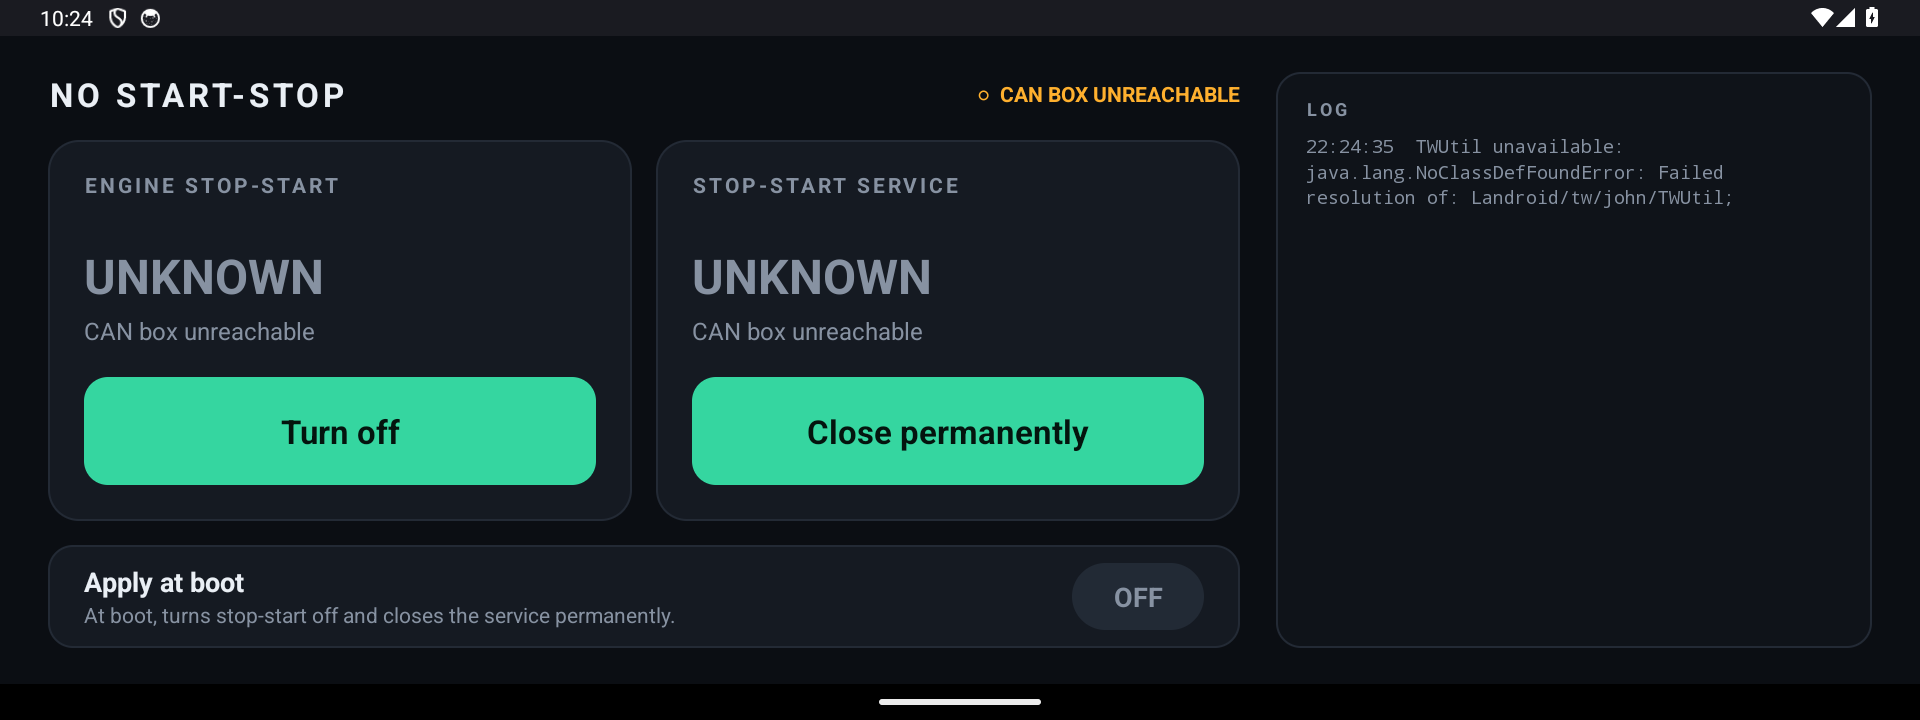
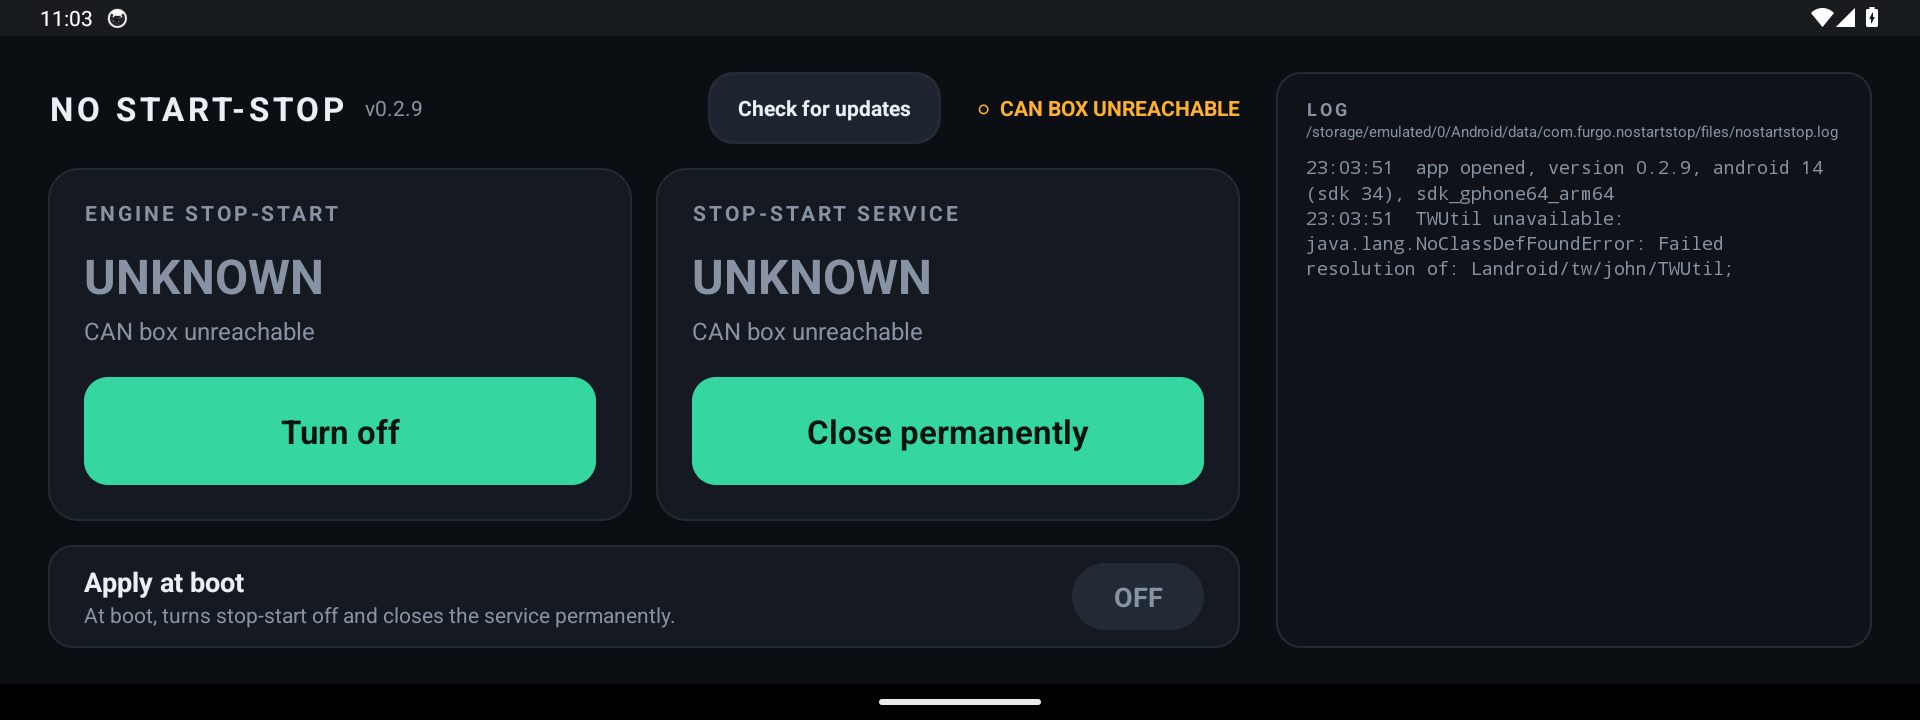
Add a Check for updates button that installs the latest release

diff --git a/src/com/furgo/nostartstop/Updater.java b/src/com/furgo/nostartstop/Updater.java
@@ -1,0 +1,125 @@
+package com.furgo.nostartstop;
+
+import android.app.PendingIntent;
+import android.content.Context;
+import android.content.Intent;
+import android.content.pm.PackageInstaller;
+import android.os.Build;
+
+import org.json.JSONArray;
+import org.json.JSONException;
+import org.json.JSONObject;
+
+import java.io.ByteArrayOutputStream;
+import java.io.IOException;
+import java.io.InputStream;
+import java.io.OutputStream;
+import java.net.HttpURLConnection;
+import java.net.URL;
+
+/**
+ * Finds the latest GitHub release and hands its APK to Android's installer.
+ * Both methods block on the network; call them off the main thread.
+ */
+final class Updater {
+    static final String ACTION_INSTALL_STATUS = "com.furgo.nostartstop.INSTALL_STATUS";
+
+    private static final String REPO = "lleirborras/android-start-stop";
+    private static final String LATEST_URL = "https://api.github.com/repos/" + REPO + "/releases/latest";
+    private static final String DOWNLOAD_PREFIX = "https://github.com/" + REPO + "/releases/download/";
+    private static final int MAX_APK_BYTES = 20 * 1024 * 1024;
+
+    static final class Release {
+        final String tag;
+        final String apkUrl;
+
+        Release(String tag, String apkUrl) {
+            this.tag = tag;
+            this.apkUrl = apkUrl;
+        }
+    }
+
+    static Release latest() throws IOException, JSONException {
+        HttpURLConnection c = open(LATEST_URL);
+        try {
+            c.setRequestProperty("Accept", "application/vnd.github+json");
+            if (c.getResponseCode() != 200) throw new IOException("GitHub answered " + c.getResponseCode());
+            JSONObject release = new JSONObject(new String(read(c.getInputStream(), 1024 * 1024), "UTF-8"));
+            String tag = release.getString("tag_name");
+            JSONArray assets = release.getJSONArray("assets");
+            for (int i = 0; i < assets.length(); i++) {
+                String url = assets.getJSONObject(i).getString("browser_download_url");
+                if (url.startsWith(DOWNLOAD_PREFIX) && url.endsWith(".apk")) return new Release(tag, url);
+            }
+            throw new IOException("release " + tag + " has no APK");
+        } finally {
+            c.disconnect();
+        }
+    }
+
+    /**
+     * Downloads the APK into an install session and commits it. Android then reports back to
+     * MainActivity (ACTION_INSTALL_STATUS), first to ask the user to confirm. Android itself
+     * rejects an APK that is not signed with the same key as the installed app.
+     */
+    static void install(Context context, Release release) throws IOException {
+        if (!release.apkUrl.startsWith(DOWNLOAD_PREFIX)) throw new IOException("unexpected download URL");
+        PackageInstaller installer = context.getPackageManager().getPackageInstaller();
+        PackageInstaller.SessionParams params =
+                new PackageInstaller.SessionParams(PackageInstaller.SessionParams.MODE_FULL_INSTALL);
+        params.setAppPackageName(context.getPackageName());
+        PackageInstaller.Session session = installer.openSession(installer.createSession(params));
+        try {
+            HttpURLConnection c = open(release.apkUrl);
+            try {
+                if (c.getResponseCode() != 200) throw new IOException("download answered " + c.getResponseCode());
+                byte[] apk = read(c.getInputStream(), MAX_APK_BYTES);
+                OutputStream out = session.openWrite("update.apk", 0, apk.length);
+                try {
+                    out.write(apk);
+                    session.fsync(out);
+                } finally {
+                    out.close();
+                }
+            } finally {
+                c.disconnect();
+            }
+            Intent status = new Intent(context, MainActivity.class).setAction(ACTION_INSTALL_STATUS);
+            // The installer fills in the result extras, so from Android 12 the intent must be mutable.
+            int flags = PendingIntent.FLAG_UPDATE_CURRENT
+                    | (Build.VERSION.SDK_INT >= 31 ? PendingIntent.FLAG_MUTABLE : 0);
+            session.commit(PendingIntent.getActivity(context, 0, status, flags).getIntentSender());
+        } catch (IOException e) {
+            session.abandon();
+            throw e;
+        } catch (RuntimeException e) {
+            session.abandon();
+            throw e;
+        } finally {
+            session.close();
+        }
+    }
+
+    private static HttpURLConnection open(String url) throws IOException {
+        HttpURLConnection c = (HttpURLConnection) new URL(url).openConnection();
+        c.setConnectTimeout(15000);
+        c.setReadTimeout(30000);
+        c.setRequestProperty("User-Agent", "nostartstop-updater");
+        return c;
+    }
+
+    private static byte[] read(InputStream in, int maxBytes) throws IOException {
+        try {
+            ByteArrayOutputStream out = new ByteArrayOutputStream();
+            byte[] buf = new byte[16 * 1024];
+            int n;
+            while ((n = in.read(buf)) != -1) {
+                out.write(buf, 0, n);
+                if (out.size() > maxBytes) throw new IOException("response larger than " + maxBytes + " bytes");
+            }
+            return out.toByteArray();
+        } finally {
+            in.close();
+        }
+    }
+}

diff --git a/src/com/furgo/nostartstop/MainActivity.java b/src/com/furgo/nostartstop/MainActivity.java
@@ -1,6 +1,8 @@
 package com.furgo.nostartstop;
 
 import android.app.Activity;
+import android.content.Intent;
+import android.content.pm.PackageInstaller;
 import android.graphics.Color;
 import android.graphics.Typeface;
 import android.graphics.drawable.GradientDrawable;
@@ -47,6 +49,9 @@ public class MainActivity extends Activity implements CanBox.Listener {
 
     private float density;
     private TextView linkView;
+    private TextView updateView;
+    private boolean updateBusy;
+    private Updater.Release available;   // non-null once a newer release was found
     private TextView bootPill;
     private TextView logView;
     private ScrollView logScroll;
@@ -160,6 +165,75 @@ public class MainActivity extends Activity implements CanBox.Listener {
         box.set(enabled == null ? false : enabled, target);
     }
 
+    private void onUpdateClick() {
+        if (updateBusy) return;
+        updateBusy = true;
+        final Updater.Release found = available;
+        renderUpdate(found == null ? "Checking…" : "Downloading " + found.tag + "…");
+        new Thread(new Runnable() {
+            @Override
+            public void run() {
+                try {
+                    if (found == null) {
+                        final Updater.Release latest = Updater.latest();
+                        handler.post(new Runnable() {
+                            @Override
+                            public void run() {
+                                onLatest(latest);
+                            }
+                        });
+                    } else {
+                        Updater.install(getApplicationContext(), found);
+                        finishUpdate("download done, waiting for Android's install prompt", "Check for updates");
+                    }
+                } catch (final Exception e) {
+                    finishUpdate("update failed: " + e, "Check for updates");
+                }
+            }
+        }).start();
+    }
+
+    private void onLatest(Updater.Release latest) {
+        updateBusy = false;
+        if (Version.isNewer(latest.tag, versionName())) {
+            available = latest;
+            onLog("update available: " + latest.tag);
+            renderUpdate("Install " + latest.tag);
+        } else {
+            onLog("no update: latest release is " + latest.tag + ", installed is " + versionName());
+            renderUpdate("Up to date");
+        }
+    }
+
+    private void finishUpdate(final String logLine, final String label) {
+        handler.post(new Runnable() {
+            @Override
+            public void run() {
+                updateBusy = false;
+                available = null;
+                onLog(logLine);
+                renderUpdate(label);
+            }
+        });
+    }
+
+    private void renderUpdate(String label) {
+        updateView.setText(label);
+    }
+
+    @Override
+    protected void onNewIntent(Intent intent) {
+        super.onNewIntent(intent);
+        if (!Updater.ACTION_INSTALL_STATUS.equals(intent.getAction())) return;
+        int status = intent.getIntExtra(PackageInstaller.EXTRA_STATUS, PackageInstaller.STATUS_FAILURE);
+        if (status == PackageInstaller.STATUS_PENDING_USER_ACTION) {
+            Intent confirm = intent.getParcelableExtra(Intent.EXTRA_INTENT);
+            if (confirm != null) startActivity(confirm);
+        } else if (status != PackageInstaller.STATUS_SUCCESS) {
+            onLog("install failed (" + status + "): " + intent.getStringExtra(PackageInstaller.EXTRA_STATUS_MESSAGE));
+        }
+    }
+
     private void toggleBoot() {
         Prefs.setApplyAtBoot(this, !Prefs.applyAtBoot(this));
         renderBoot();
@@ -237,6 +311,20 @@ public class MainActivity extends Activity implements CanBox.Listener {
         LinearLayout.LayoutParams versionLp = new LinearLayout.LayoutParams(0, -2, 1f);
         versionLp.leftMargin = dp(12);
         header.addView(version, versionLp);
+        updateView = text("", 14, TEXT, true);
+        updateView.setGravity(Gravity.CENTER);
+        updateView.setPadding(dp(20), 0, dp(20), 0);
+        updateView.setBackgroundDrawable(pressable(0xFF1D2430, 0xFF2B3544, 2));
+        updateView.setOnClickListener(new View.OnClickListener() {
+            @Override
+            public void onClick(View view) {
+                onUpdateClick();
+            }
+        });
+        LinearLayout.LayoutParams updateLp = new LinearLayout.LayoutParams(-2, dp(48));
+        updateLp.rightMargin = dp(24);
+        header.addView(updateView, updateLp);
+        renderUpdate("Check for updates");
         linkView = text("", 14, MUTED, true);
         header.addView(linkView);
         left.addView(header, new LinearLayout.LayoutParams(-1, -2));

diff --git a/test/com/furgo/nostartstop/VersionTest.java b/test/com/furgo/nostartstop/VersionTest.java
@@ -1,0 +1,36 @@
+package com.furgo.nostartstop;
+
+/** Plain-Java test, no test framework: run by test.sh, exits non-zero on the first failure. */
+public class VersionTest {
+    public static void main(String[] args) {
+        check("v0.4.0", "0.3.0", true);
+        check("v0.3.1", "0.3.0", true);
+        check("v1.0.0", "0.9.9", true);
+        check("v0.10.0", "0.9.0", true);
+        check("0.4.0", "0.3.0", true);
+
+        check("v0.3.0", "0.3.0", false);
+        check("v0.2.9", "0.3.0", false);
+        check("v0.9.0", "0.10.0", false);
+        check("v0.9.9", "1.0.0", false);
+
+        // Anything that is not X.Y.Z must never trigger an update.
+        check("v0.4.0", "dev", false);
+        check("v0.4.0", "unknown", false);
+        check("v0.4", "0.3.0", false);
+        check("v0.4.0.1", "0.3.0", false);
+        check("v0.4.0-beta", "0.3.0", false);
+        check("latest", "0.3.0", false);
+        check("", "0.3.0", false);
+        check(null, "0.3.0", false);
+        check("v0.4.0", null, false);
+
+        System.out.println("VersionTest passed");
+    }
+
+    private static void check(String tag, String installed, boolean expected) {
+        if (Version.isNewer(tag, installed) != expected) {
+            throw new AssertionError("isNewer(" + tag + ", " + installed + ") should be " + expected);
+        }
+    }
+}

diff --git a/src/com/furgo/nostartstop/Version.java b/src/com/furgo/nostartstop/Version.java
@@ -1,0 +1,31 @@
+package com.furgo.nostartstop;
+
+/** Compares release tags like "v0.4.0" with installed version names like "0.3.0". */
+final class Version {
+    /** False when either side is not X.Y.Z (a local "dev" build never counts as older). */
+    static boolean isNewer(String tag, String installed) {
+        int[] a = parse(tag);
+        int[] b = parse(installed);
+        if (a == null || b == null) return false;
+        for (int i = 0; i < 3; i++) {
+            if (a[i] != b[i]) return a[i] > b[i];
+        }
+        return false;
+    }
+
+    private static int[] parse(String s) {
+        if (s == null) return null;
+        if (s.startsWith("v")) s = s.substring(1);
+        String[] parts = s.split("\\.", -1);
+        if (parts.length != 3) return null;
+        int[] out = new int[3];
+        for (int i = 0; i < 3; i++) {
+            if (parts[i].isEmpty() || parts[i].length() > 6) return null;
+            for (int j = 0; j < parts[i].length(); j++) {
+                if (!Character.isDigit(parts[i].charAt(j))) return null;
+            }
+            out[i] = Integer.parseInt(parts[i]);
+        }
+        return out;
+    }
+}

diff --git a/README.md b/README.md
@@ -18,6 +18,7 @@ The screenshots are from an emulator at 1920x720 with a simulated CAN box. On a 
 - **Stop-start service**: shows whether the service is controllable or permanently closed and toggles it.
 - **Apply at boot**: off by default. When on, the app turns stop-start off and closes the service once after the head unit boots, then stops.
 - **Log**: the commands sent and any errors.
+- **Check for updates**: downloads and installs the latest release when you ask for it.
 
 ## Install from a USB pendrive
 
@@ -30,6 +31,17 @@ The screenshots are from an emulator at 1920x720 with a simulated CAN box. On a 
 7. Turn **Apply at boot** on if you want it applied automatically.
 
 To update, install the new APK over the old one the same way. Release APKs all share one signing key, so they update each other. A locally built APK is signed with your own debug key: uninstall the old version before switching between a release and a local build.
+
+## Updating from the app
+
+With the head unit online (phone hotspot or Wi-Fi):
+
+1. Tap **Check for updates** at the top of the screen. The button changes to **Install vX.Y.Z** if a newer release exists, or **Up to date**.
+2. Tap **Install vX.Y.Z**. The app downloads the APK and Android asks you to confirm the update.
+3. The first time, Android says the app is not allowed to install unknown apps. Tap **Settings**, allow it for No Start-Stop, go back and tap **Install** again.
+4. The app closes when the update finishes. Open it again; the new version is shown next to the title. Settings and the log are kept.
+
+The app only uses the network when you tap that button. It asks `api.github.com` for this repository's latest release and downloads the APK from `github.com`; it sends nothing else. Android refuses any APK that is not signed with the same key as the installed app, so a locally built (debug-signed) install cannot be updated this way.
 
 ## Getting the log off the head unit
 
